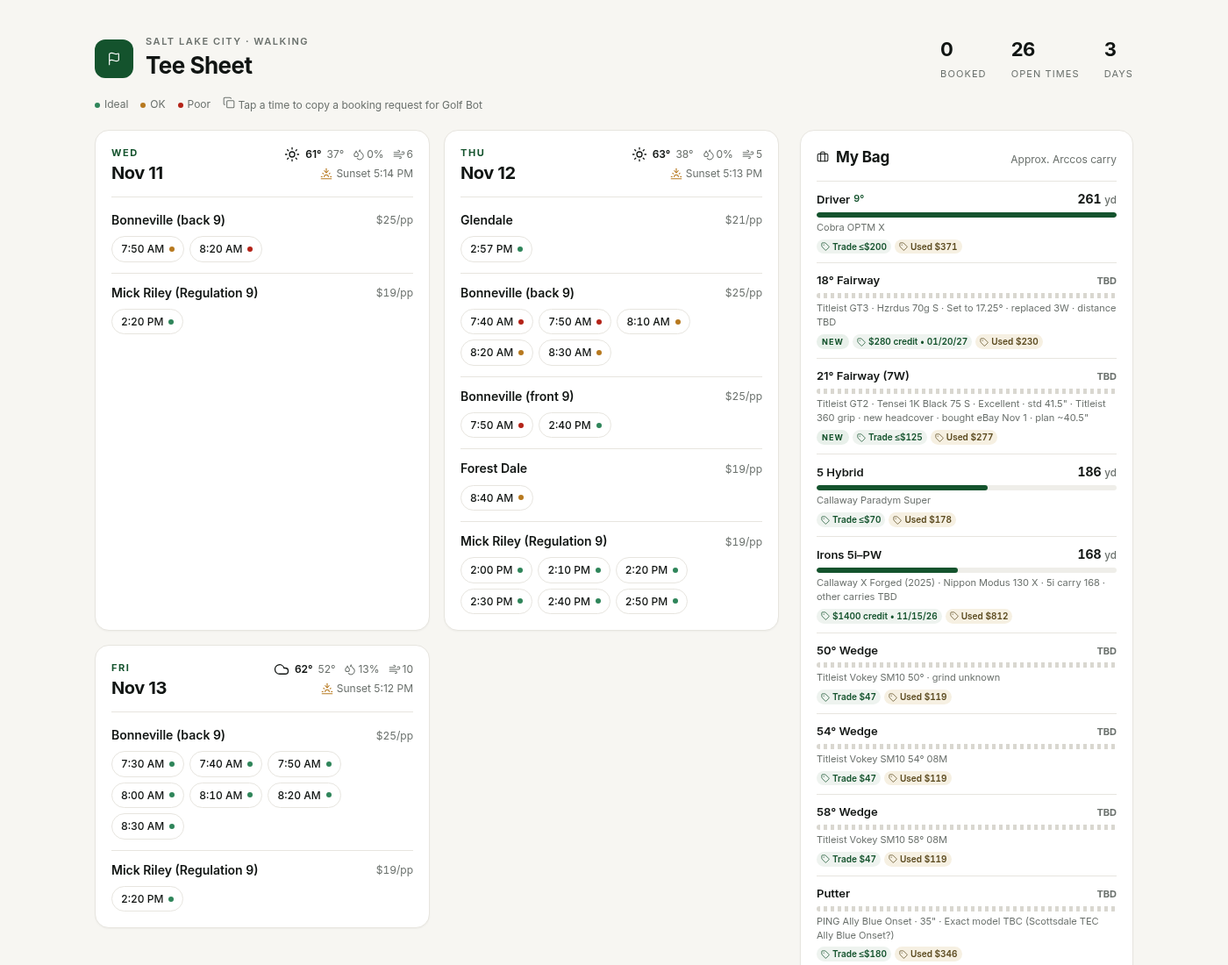
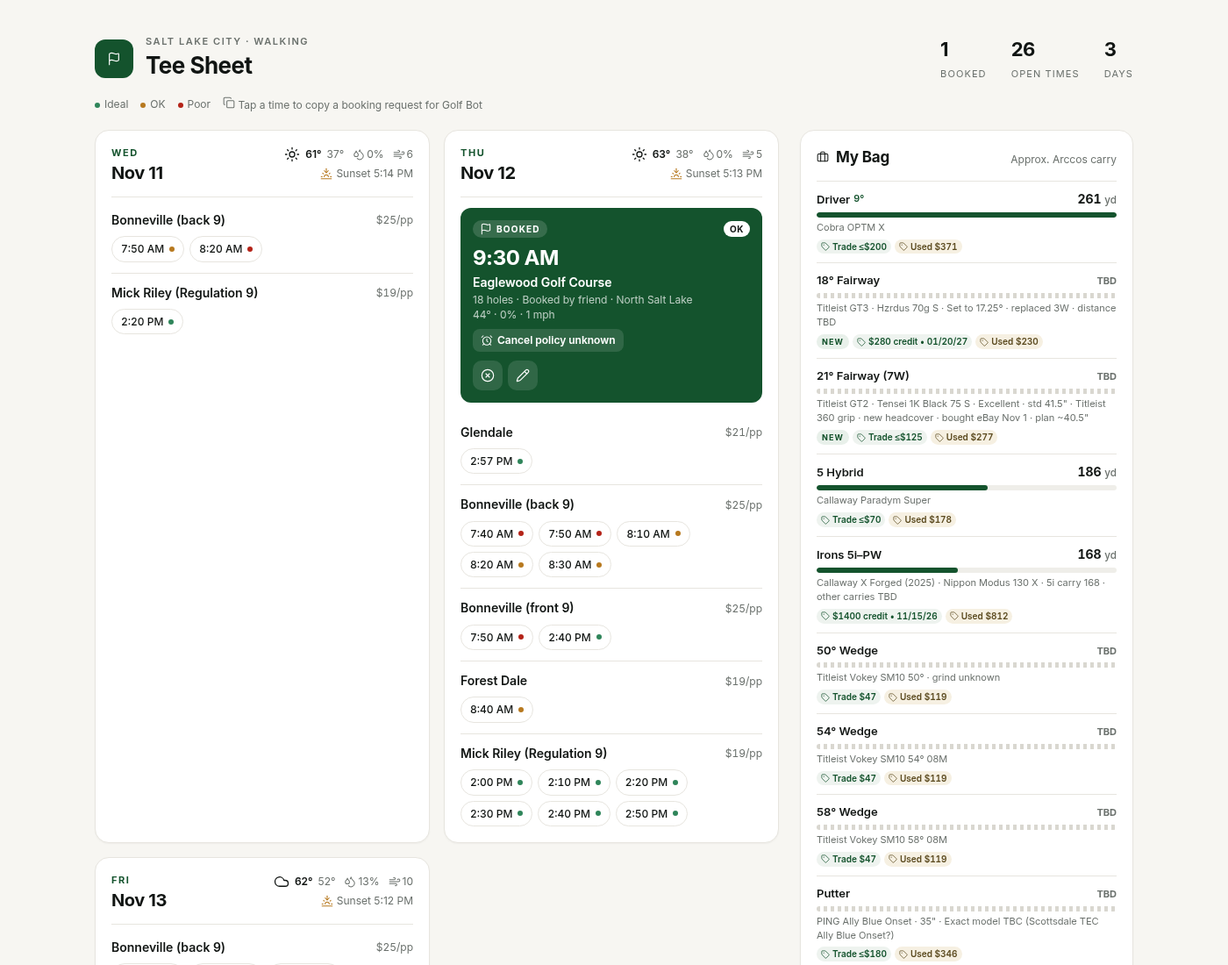
Update schedule 2026-11-11 11:56 MT

diff --git a/index.html b/index.html
@@ -47,10 +47,10 @@ ul{list-style:none;margin:0;padding:0}.ladder{border-top:1px solid var(--ln)}
 @media(max-width:560px){.wrap{padding:22px 16px 48px}h1{font-size:22px}.stats{gap:20px}.grid{grid-template-columns:1fr}}
 </style></head><body><div class="wrap">
 <div class="top"><div class="brand"><div class="logo"><i data-lucide="flag" class="ic "></i></div><div><div class="eyebrow">Salt Lake City · Walking</div><h1>Tee Sheet</h1></div></div>
-<div class="stats"><div class="stat"><b>0</b><span>Booked</span></div><div class="stat"><b>26</b><span>Open times</span></div><div class="stat"><b>3</b><span>Days</span></div></div></div>
+<div class="stats"><div class="stat"><b>1</b><span>Booked</span></div><div class="stat"><b>26</b><span>Open times</span></div><div class="stat"><b>3</b><span>Days</span></div></div></div>
 <div class="legend"><span><i class="dot ideal"></i>Ideal</span><span><i class="dot ok"></i>OK</span><span><i class="dot poor"></i>Poor</span><span><i data-lucide="copy" class="ic s"></i> Tap a time to copy a booking request for Golf Bot</span></div>
-<div class="layout"><div class="grid"><section class="card day"><header><div><div class="dow">Wed</div><div class="dt">Nov 11</div></div><div class="wxc"><div class="sum" title="☀ Clear (7a–7p)"><i data-lucide="sun" class="ic "></i><span class="hi">61°</span><span class="lo">37°</span><span class="m"><i data-lucide="droplets" class="ic s"></i>0%</span><span class="m"><i data-lucide="wind" class="ic s"></i>6</span></div><div class="sun"><i data-lucide="sunset" class="ic s"></i>Sunset 5:14 PM</div></div></header><div class="crs"><div class="row"><span class="cn">Bonneville (back 9)</span><span class="pr">$25/pp</span></div><div class="tts"><button class="tt ok" data-msg="Book Bonneville (back 9) Wed Nov 11 7:50 AM" title="☀ Clear · 41°F · 0% precip · 4 mph · tap to copy booking request" aria-label="Copy: Book Bonneville (back 9) Wed Nov 11 7:50 AM" onclick="cp(this)"><span>7:50 AM</span><i class="dot"></i></button><button class="tt poor" data-msg="Book Bonneville (back 9) Wed Nov 11 8:20 AM" title="☀ Clear · 37°F · 0% precip · 5 mph · tap to copy booking request" aria-label="Copy: Book Bonneville (back 9) Wed Nov 11 8:20 AM" onclick="cp(this)"><span>8:20 AM</span><i class="dot"></i></button></div></div><div class="crs"><div class="row"><span class="cn">Mick Riley (Regulation 9)</span><span class="pr">$19/pp</span></div><div class="tts"><button class="tt ideal" data-msg="Book Mick Riley (Regulation 9) Wed Nov 11 2:20 PM" title="☀ Clear · 61°F · 0% precip · 5 mph · tap to copy booking request" aria-label="Copy: Book Mick Riley (Regulation 9) Wed Nov 11 2:20 PM" onclick="cp(this)"><span>2:20 PM</span><i class="dot"></i></button></div></div></section><section class="card day"><header><div><div class="dow">Thu</div><div class="dt">Nov 12</div></div><div class="wxc"><div class="sum" title="☀ Clear (7a–7p)"><i data-lucide="sun" class="ic "></i><span class="hi">63°</span><span class="lo">38°</span><span class="m"><i data-lucide="droplets" class="ic s"></i>0%</span><span class="m"><i data-lucide="wind" class="ic s"></i>5</span></div><div class="sun"><i data-lucide="sunset" class="ic s"></i>Sunset 5:13 PM</div></div></header><div class="crs"><div class="row"><span class="cn">Glendale</span><span class="pr">$21/pp</span></div><div class="tts"><button class="tt ideal" data-msg="Book Glendale Thu Nov 12 2:57 PM" title="🌤 Mostly clear · 62°F · 0% precip · 5 mph · tap to copy booking request" aria-label="Copy: Book Glendale Thu Nov 12 2:57 PM" onclick="cp(this)"><span>2:57 PM</span><i class="dot"></i></button></div></div><div class="crs"><div class="row"><span class="cn">Bonneville (back 9)</span><span class="pr">$25/pp</span></div><div class="tts"><button class="tt poor" data-msg="Book Bonneville (back 9) Thu Nov 12 7:40 AM" title="☀ Clear · 38°F · 0% precip · 2 mph · tap to copy booking request" aria-label="Copy: Book Bonneville (back 9) Thu Nov 12 7:40 AM" onclick="cp(this)"><span>7:40 AM</span><i class="dot"></i></button><button class="tt poor" data-msg="Book Bonneville (back 9) Thu Nov 12 7:50 AM" title="☀ Clear · 38°F · 0% precip · 2 mph · tap to copy booking request" aria-label="Copy: Book Bonneville (back 9) Thu Nov 12 7:50 AM" onclick="cp(this)"><span>7:50 AM</span><i class="dot"></i></button><button class="tt ok" data-msg="Book Bonneville (back 9) Thu Nov 12 8:10 AM" title="☀ Clear · 40°F · 0% precip · 3 mph · tap to copy booking request" aria-label="Copy: Book Bonneville (back 9) Thu Nov 12 8:10 AM" onclick="cp(this)"><span>8:10 AM</span><i class="dot"></i></button><button class="tt ok" data-msg="Book Bonneville (back 9) Thu Nov 12 8:20 AM" title="☀ Clear · 40°F · 0% precip · 3 mph · tap to copy booking request" aria-label="Copy: Book Bonneville (back 9) Thu Nov 12 8:20 AM" onclick="cp(this)"><span>8:20 AM</span><i class="dot"></i></button><button class="tt ok" data-msg="Book Bonneville (back 9) Thu Nov 12 8:30 AM" title="☀ Clear · 40°F · 0% precip · 3 mph · tap to copy booking request" aria-label="Copy: Book Bonneville (back 9) Thu Nov 12 8:30 AM" onclick="cp(this)"><span>8:30 AM</span><i class="dot"></i></button></div></div><div class="crs"><div class="row"><span class="cn">Bonneville (front 9)</span><span class="pr">$25/pp</span></div><div class="tts"><button class="tt poor" data-msg="Book Bonneville (front 9) Thu Nov 12 7:50 AM" title="☀ Clear · 38°F · 0% precip · 2 mph · tap to copy booking request" aria-label="Copy: Book Bonneville (front 9) Thu Nov 12 7:50 AM" onclick="cp(this)"><span>7:50 AM</span><i class="dot"></i></button><button class="tt ideal" data-msg="Book Bonneville (front 9) Thu Nov 12 2:40 PM" title="🌤 Mostly clear · 62°F · 0% precip · 5 mph · tap to copy booking request" aria-label="Copy: Book Bonneville (front 9) Thu Nov 12 2:40 PM" onclick="cp(this)"><span>2:40 PM</span><i class="dot"></i></button></div></div><div class="crs"><div class="row"><span class="cn">Forest Dale</span><span class="pr">$19/pp</span></div><div class="tts"><button class="tt ok" data-msg="Book Forest Dale Thu Nov 12 8:40 AM" title="☀ Clear · 40°F · 0% precip · 3 mph · tap to copy booking request" aria-label="Copy: Book Forest Dale Thu Nov 12 8:40 AM" onclick="cp(this)"><span>8:40 AM</span><i class="dot"></i></button></div></div><div class="crs"><div class="row"><span class="cn">Mick Riley (Regulation 9)</span><span class="pr">$19/pp</span></div><div class="tts"><button class="tt ideal" data-msg="Book Mick Riley (Regulation 9) Thu Nov 12 2:00 PM" title="🌤 Mostly clear · 62°F · 0% precip · 5 mph · tap to copy booking request" aria-label="Copy: Book Mick Riley (Regulation 9) Thu Nov 12 2:00 PM" onclick="cp(this)"><span>2:00 PM</span><i class="dot"></i></button><button class="tt ideal" data-msg="Book Mick Riley (Regulation 9) Thu Nov 12 2:10 PM" title="🌤 Mostly clear · 62°F · 0% precip · 5 mph · tap to copy booking request" aria-label="Copy: Book Mick Riley (Regulation 9) Thu Nov 12 2:10 PM" onclick="cp(this)"><span>2:10 PM</span><i class="dot"></i></button><button class="tt ideal" data-msg="Book Mick Riley (Regulation 9) Thu Nov 12 2:20 PM" title="🌤 Mostly clear · 62°F · 0% precip · 5 mph · tap to copy booking request" aria-label="Copy: Book Mick Riley (Regulation 9) Thu Nov 12 2:20 PM" onclick="cp(this)"><span>2:20 PM</span><i class="dot"></i></button><button class="tt ideal" data-msg="Book Mick Riley (Regulation 9) Thu Nov 12 2:30 PM" title="🌤 Mostly clear · 62°F · 0% precip · 5 mph · tap to copy booking request" aria-label="Copy: Book Mick Riley (Regulation 9) Thu Nov 12 2:30 PM" onclick="cp(this)"><span>2:30 PM</span><i class="dot"></i></button><button class="tt ideal" data-msg="Book Mick Riley (Regulation 9) Thu Nov 12 2:40 PM" title="🌤 Mostly clear · 62°F · 0% precip · 5 mph · tap to copy booking request" aria-label="Copy: Book Mick Riley (Regulation 9) Thu Nov 12 2:40 PM" onclick="cp(this)"><span>2:40 PM</span><i class="dot"></i></button><button class="tt ideal" data-msg="Book Mick Riley (Regulation 9) Thu Nov 12 2:50 PM" title="🌤 Mostly clear · 62°F · 0% precip · 5 mph · tap to copy booking request" aria-label="Copy: Book Mick Riley (Regulation 9) Thu Nov 12 2:50 PM" onclick="cp(this)"><span>2:50 PM</span><i class="dot"></i></button></div></div></section><section class="card day"><header><div><div class="dow">Fri</div><div class="dt">Nov 13</div></div><div class="wxc"><div class="sum" title="☁ Overcast (7a–7p)"><i data-lucide="cloud" class="ic "></i><span class="hi">62°</span><span class="lo">52°</span><span class="m"><i data-lucide="droplets" class="ic s"></i>13%</span><span class="m"><i data-lucide="wind" class="ic s"></i>10</span></div><div class="sun"><i data-lucide="sunset" class="ic s"></i>Sunset 5:12 PM</div></div></header><div class="crs"><div class="row"><span class="cn">Bonneville (back 9)</span><span class="pr">$25/pp</span></div><div class="tts"><button class="tt ideal" data-msg="Book Bonneville (back 9) Fri Nov 13 7:30 AM" title="☁ Overcast · 52°F · 0% precip · 5 mph · tap to copy booking request" aria-label="Copy: Book Bonneville (back 9) Fri Nov 13 7:30 AM" onclick="cp(this)"><span>7:30 AM</span><i class="dot"></i></button><button class="tt ideal" data-msg="Book Bonneville (back 9) Fri Nov 13 7:40 AM" title="☁ Overcast · 52°F · 0% precip · 5 mph · tap to copy booking request" aria-label="Copy: Book Bonneville (back 9) Fri Nov 13 7:40 AM" onclick="cp(this)"><span>7:40 AM</span><i class="dot"></i></button><button class="tt ideal" data-msg="Book Bonneville (back 9) Fri Nov 13 7:50 AM" title="☁ Overcast · 52°F · 0% precip · 5 mph · tap to copy booking request" aria-label="Copy: Book Bonneville (back 9) Fri Nov 13 7:50 AM" onclick="cp(this)"><span>7:50 AM</span><i class="dot"></i></button><button class="tt ideal" data-msg="Book Bonneville (back 9) Fri Nov 13 8:00 AM" title="☁ Overcast · 52°F · 0% precip · 5 mph · tap to copy booking request" aria-label="Copy: Book Bonneville (back 9) Fri Nov 13 8:00 AM" onclick="cp(this)"><span>8:00 AM</span><i class="dot"></i></button><button class="tt ideal" data-msg="Book Bonneville (back 9) Fri Nov 13 8:10 AM" title="☁ Overcast · 52°F · 0% precip · 5 mph · tap to copy booking request" aria-label="Copy: Book Bonneville (back 9) Fri Nov 13 8:10 AM" onclick="cp(this)"><span>8:10 AM</span><i class="dot"></i></button><button class="tt ideal" data-msg="Book Bonneville (back 9) Fri Nov 13 8:20 AM" title="☁ Overcast · 52°F · 0% precip · 5 mph · tap to copy booking request" aria-label="Copy: Book Bonneville (back 9) Fri Nov 13 8:20 AM" onclick="cp(this)"><span>8:20 AM</span><i class="dot"></i></button><button class="tt ideal" data-msg="Book Bonneville (back 9) Fri Nov 13 8:30 AM" title="☁ Overcast · 52°F · 0% precip · 5 mph · tap to copy booking request" aria-label="Copy: Book Bonneville (back 9) Fri Nov 13 8:30 AM" onclick="cp(this)"><span>8:30 AM</span><i class="dot"></i></button></div></div><div class="crs"><div class="row"><span class="cn">Mick Riley (Regulation 9)</span><span class="pr">$19/pp</span></div><div class="tts"><button class="tt ideal" data-msg="Book Mick Riley (Regulation 9) Fri Nov 13 2:20 PM" title="☁ Overcast · 62°F · 0% precip · 10 mph · tap to copy booking request" aria-label="Copy: Book Mick Riley (Regulation 9) Fri Nov 13 2:20 PM" onclick="cp(this)"><span>2:20 PM</span><i class="dot"></i></button></div></div></section></div><section class="card bag"><header><h2><i data-lucide="briefcase" class="ic s"></i>My Bag</h2><span class="muted">Approx. Arccos carry</span></header><ul class="ladder"><li class="lad"><div class="l1"><div class="cname">Driver <small>9°</small></div><div class="yd">261 <small>yd</small></div></div><div class="bar"><span style="width:100%"></span></div><div class="muted">Cobra OPTM X</div><div class=bdg><span class="val" title="On in Two trade-in (up-to ceiling) · 2026-11-02"><i data-lucide="tag" class="ic xs"></i>Trade ≤$200</span><span class="val used" title="2nd Swing used OPTM X Stiff: 9° Mint $379.99 (Kai&#x27;li White 60), 10.5° Above Average $362.99 · 2026-11-02"><i data-lucide="tag" class="ic xs"></i>Used $371</span></div></li><li class="lad"><div class="l1"><div class="cname">18° Fairway</div><div class="yd muted">TBD</div></div><div class="bar tbd"><span></span></div><div class="muted">Titleist GT3 · Hzrdus 70g S · Set to 17.25° · replaced 3W · distance TBD</div><div class=bdg><span class="pill sm">New</span><span class="val" title="Uinta Golf 90-day guarantee, bought Oct 22, 2026 · 2026-10-22"><i data-lucide="tag" class="ic xs"></i>$280 credit • 01/20/27</span><span class="val used" title="Global Golf used GT3 fairway Excellent $229.99; eBay sold GT3 18° 5W median $231 (Teeworth, 90 days) · 2026-10-26"><i data-lucide="tag" class="ic xs"></i>Used $230</span></div></li><li class="lad"><div class="l1"><div class="cname">21° Fairway (7W)</div><div class="yd muted">TBD</div></div><div class="bar tbd"><span></span></div><div class="muted">Titleist GT2 · Tensei 1K Black 75 S · Excellent · std 41.5&quot; · Titleist 360 grip · new headcover · bought eBay Nov 1 · plan ~40.5&quot;</div><div class=bdg><span class="pill sm">New</span><span class="val" title="On in Two trade-in (up-to ceiling, excellent) · Titleist GT2 fairway · 2026-11-02"><i data-lucide="tag" class="ic xs"></i>Trade ≤$125</span><span class="val used" title="Avg of Global Golf GT2 Very Good $264.99 and Next Round GT2 Excellent $289.99; eBay sold median $200 (45 sales, Face Value Golf) · 2026-10-26"><i data-lucide="tag" class="ic xs"></i>Used $277</span></div></li><li class="lad"><div class="l1"><div class="cname">5 Hybrid</div><div class="yd">186 <small>yd</small></div></div><div class="bar"><span style="width:57%"></span></div><div class="muted">Callaway Paradym Super</div><div class=bdg><span class="val" title="On in Two trade-in (up-to ceiling) · 2026-11-02"><i data-lucide="tag" class="ic xs"></i>Trade ≤$70</span><span class="val used" title="Face Value Golf typical used asking, Paradym Super hybrid Above Average grade (Callaway Pre-Owned from $120 Avg) · 2026-10-26"><i data-lucide="tag" class="ic xs"></i>Used $178</span></div></li><li class="lad"><div class="l1"><div class="cname">Irons 5i–PW</div><div class="yd">168 <small>yd</small></div></div><div class="bar"><span style="width:47%"></span></div><div class="muted">Callaway X Forged (2025) · Nippon Modus 130 X · 5i carry 168 · other carries TBD</div><div class=bdg><span class="val" title="Jason: trade-in guarantee value, trade by Nov 15, 2026 (deadline approx., per Jason) · 2026-10-26"><i data-lucide="tag" class="ic xs"></i>$1400 credit • 11/15/26</span><span class="val used" title="FairwayWire eBay sold avg, X Forged 2025 set (18 sales, mostly 4-PW, mixed shafts); Excellent/Very Good sales $986–$1,200 · 2026-10-26"><i data-lucide="tag" class="ic xs"></i>Used $812</span></div></li><li class="lad"><div class="l1"><div class="cname">50° Wedge</div><div class="yd muted">TBD</div></div><div class="bar tbd"><span></span></div><div class="muted">Titleist Vokey SM10 50° · grind unknown</div><div class=bdg><span class="val" title="2nd Swing store credit via Face Value Golf (SM10 family, avg cond., checked Oct 21); iGolf Value Guide cash $47 · 2026-11-02"><i data-lucide="tag" class="ic xs"></i>Trade $47</span><span class="val used" title="Titleist Certified Pre-Owned SM10 Excellent $119 · 2026-10-26"><i data-lucide="tag" class="ic xs"></i>Used $119</span></div></li><li class="lad"><div class="l1"><div class="cname">54° Wedge</div><div class="yd muted">TBD</div></div><div class="bar tbd"><span></span></div><div class="muted">Titleist Vokey SM10 54° 08M</div><div class=bdg><span class="val" title="2nd Swing store credit via Face Value Golf (SM10 family, avg cond., checked Oct 21); iGolf Value Guide cash $47 · 2026-11-02"><i data-lucide="tag" class="ic xs"></i>Trade $47</span><span class="val used" title="Titleist Certified Pre-Owned SM10 Excellent $119 · 2026-10-26"><i data-lucide="tag" class="ic xs"></i>Used $119</span></div></li><li class="lad"><div class="l1"><div class="cname">58° Wedge</div><div class="yd muted">TBD</div></div><div class="bar tbd"><span></span></div><div class="muted">Titleist Vokey SM10 58° 08M</div><div class=bdg><span class="val" title="2nd Swing store credit via Face Value Golf (SM10 family, avg cond., checked Oct 21); iGolf Value Guide cash $47 · 2026-11-02"><i data-lucide="tag" class="ic xs"></i>Trade $47</span><span class="val used" title="Titleist Certified Pre-Owned SM10 Excellent $119 · 2026-10-26"><i data-lucide="tag" class="ic xs"></i>Used $119</span></div></li><li class="lad"><div class="l1"><div class="cname">Putter</div><div class="yd muted">TBD</div></div><div class="bar tbd"><span></span></div><div class="muted">PING Ally Blue Onset · 35&quot; · Exact model TBC (Scottsdale TEC Ally Blue Onset?)</div><div class=bdg><span class="val" title="On in Two trade-in (up-to ceiling) · Scottsdale TEC Ally Blue Onset; PLD SE Ally Blue 4 Onset $185 · 2026-11-02"><i data-lucide="tag" class="ic xs"></i>Trade ≤$180</span><span class="val used" title="ClubChecks used target, Scottsdale TEC Ally Blue Onset; Carl&#x27;s Golfland 35&quot; Very Good $349.99 · 2026-10-26"><i data-lucide="tag" class="ic xs"></i>Used $346</span></div></li></ul><div class="subs"><div class="sub"><h3><i data-lucide="repeat" class="ic s"></i>Flagged to replace</h3><ul class="lst replace"><li><div class="it"><div class="l1"><div class="cname">Callaway X Forged irons</div></div><div class="muted">Considering trade for P7CB heads, same Modus 130 X</div><div class=bdg><span class="val" title="Jason: trade-in guarantee value, trade by Nov 15, 2026 (deadline approx., per Jason) · 2026-10-26"><i data-lucide="tag" class="ic xs"></i>$1400 credit • 11/15/26</span><span class="val used" title="FairwayWire eBay sold avg, X Forged 2025 set (18 sales, mostly 4-PW, mixed shafts); Excellent/Very Good sales $986–$1,200 · 2026-10-26"><i data-lucide="tag" class="ic xs"></i>Used $812</span></div></div></li></ul></div><div class="sub"><h3><i data-lucide="pause-circle" class="ic s"></i>Sidelined</h3><ul class="lst sidelined"><li><div class="it"><div class="l1"><div class="cname">Odyssey Jailbird Mini · slant neck 35&quot;</div></div><div class="muted">Keep, go back to, or trade?</div><div class=bdg><span class="val" title="On in Two trade-in ceilings: Ai-ONE Jailbird Mini S $95 – Ai-DUAL Jailbird Mini $120 (exact version TBC) · 2026-11-02"><i data-lucide="tag" class="ic xs"></i>Trade $95–120</span><span class="val used" title="Golf Club Index avg sold, Odyssey Ai-ONE Jailbird Mini (exact version TBC) · 2026-10-26"><i data-lucide="tag" class="ic xs"></i>Used $194</span></div></div></li><li><div class="it"><div class="l1"><div class="cname">3 Hybrid</div><div class=yd>195 <small>yd</small></div></div><div class="muted">Sidelined Nov 8, 2026 · was flagged to come out when the 21° GT goes in</div><div class=bdg><span class="val" title="On in Two trade-in (up-to ceiling) · 2026-11-02"><i data-lucide="tag" class="ic xs"></i>Trade ≤$70</span><span class="val used" title="Face Value Golf typical used asking, Paradym Super hybrid Above Average grade (Callaway Pre-Owned from $120 Avg) · 2026-10-26"><i data-lucide="tag" class="ic xs"></i>Used $178</span></div></div></li></ul></div><div class="sub"><h3><i data-lucide="plus-circle" class="ic s"></i>Interested in adding</h3><ul class="lst add"><li><div class="it"><div class="l1"><div class="cname">TaylorMade P7CB irons</div></div><div class="muted">Same Modus 130 X shafts</div><div class=bdg><span class="val" title="Face Value Golf: best cash offer, iGolf Value Guide, 7-club set, Average ($61.50/club), checked Oct 11 · 2026-10-26"><i data-lucide="tag" class="ic xs"></i>Trade $431 set</span><span class="val used" title="Face Value Golf typical used asking, 7-club set, median of 44 listings (Average or better), checked Oct 11; Global Golf Average 4-PW $760 · 2026-10-26"><i data-lucide="tag" class="ic xs"></i>Used $859</span></div></div></li><li><div class="it"><div class="l1"><div class="cname">Titleist Vokey SM10 46° 10F</div></div><div class="muted">Backup PW option if the X Forged PW doesn&#x27;t work out or gets damaged; not in the bag</div><div class=bdg><span class="val" title="2nd Swing store credit via Face Value Golf (SM10 family, avg cond.) · 2026-10-23"><i data-lucide="tag" class="ic xs"></i>Trade $47</span><span class="val used" title="Titleist Certified Pre-Owned SM10 Excellent $119 · 2026-10-26"><i data-lucide="tag" class="ic xs"></i>Used $119</span></div></div></li></ul></div><div class="sub"><h3><i data-lucide="archive" class="ic s"></i>Retired</h3><ul class="lst retired"><li><div class="it"><div class="l1"><div class="cname">Paradym Ai Smoke Max 3W</div></div><div class="muted">~211 yd, right miss · traded in for GT3 18° at Uinta Golf, Oct 2026</div></div></li></ul></div></div></section></div><section class="card lenchart"><header><h2><i data-lucide="ruler" class="ic s"></i>Titleist GT/GTS woods + GT1 hybrid lengths</h2></header><div class="tw"><table><thead><tr><th>Loft</th><th>Club</th><th>Models</th><th>Std</th><th>−½"</th><th>−1"</th></tr></thead><tbody><tr><td>13.5°</td><td>3-wood</td><td class="muted">GT2, GTS2</td><td>43"</td><td>42.5"</td><td>42"</td></tr><tr><td>15°</td><td>3-wood</td><td class="muted">GT1, GT2, GT3, GTS</td><td>43"</td><td>42.5"</td><td>42"</td></tr><tr><td>16.5°</td><td>4-wood</td><td class="muted">GT2, GT3, GTS</td><td>43"</td><td>42.5"</td><td>42"</td></tr><tr class="inbag"><td>18°</td><td>5-wood (mine, GT3) <span class="mtag">In bag</span></td><td class="muted">GT1, GT2, GT3, GTS</td><td>42"</td><td class=hl>41.5"</td><td>41"</td></tr><tr><td>20°</td><td>4-hybrid</td><td class="muted">GT1 hybrid</td><td>40.5"</td><td>40"</td><td>39.5"</td></tr><tr class="inbag"><td>21°</td><td>7-wood <span class="mtag">In bag</span></td><td class="muted">GT1, GT2, GTS</td><td>41.5"</td><td>41"</td><td class=hl>40.5"</td></tr><tr class="target"><td>23°</td><td>5-hybrid <span class="mtag">Target</span> <span class="muted">set to 24.5°</span></td><td class="muted">GT1 hybrid</td><td>40"</td><td>39.5"</td><td>39"</td></tr><tr class="target"><td>24°</td><td>9-wood <span class="mtag">Target</span></td><td class="muted">GT1 only</td><td>41"</td><td>40.5"</td><td class=hl>40"</td></tr><tr><td>26°</td><td>6-hybrid</td><td class="muted">GT1 hybrid</td><td>39.5"</td><td>39"</td><td>38.5"</td></tr><tr><td>29°</td><td>7-hybrid</td><td class="muted">GT1 hybrid</td><td>39"</td><td>38.5"</td><td>38"</td></tr></tbody></table></div><p class="muted">Row marks: In bag (GT3 18° 5-wood, GT2 21° 7-wood set 22.5°) and Target (GT1 23° hybrid set 24.5°, GT1 24° 9-wood). Highlighted cells = shortening plan in ~½" steps (5-wood 41.5", 7-wood ~40.5" or 9-wood ~40"). GT1 23° hybrid is already 40" stock. Add ~2g head weight per ½" cut. GT1 hybrids ship with a .335" fairway tip unless custom-ordered with .370". Source: Titleist specs.</p></section>
-<div class="foot"><i data-lucide="refresh-cw" class="ic s"></i>Updated Wed Nov 11 · 11:09 AM MT · Open times checked at about 7:18 AM MST on Nov 11. Wed/Fri: Glendale sold out. Forest Dale: Thursday 8:40 AM only. Walking preferred, cart unknown. ForeUp unverified. · Weather: Open-Meteo</div></div>
+<div class="layout"><div class="grid"><section class="card day"><header><div><div class="dow">Wed</div><div class="dt">Nov 11</div></div><div class="wxc"><div class="sum" title="☀ Clear (7a–7p)"><i data-lucide="sun" class="ic "></i><span class="hi">61°</span><span class="lo">37°</span><span class="m"><i data-lucide="droplets" class="ic s"></i>0%</span><span class="m"><i data-lucide="wind" class="ic s"></i>6</span></div><div class="sun"><i data-lucide="sunset" class="ic s"></i>Sunset 5:14 PM</div></div></header><div class="crs"><div class="row"><span class="cn">Bonneville (back 9)</span><span class="pr">$25/pp</span></div><div class="tts"><button class="tt ok" data-msg="Book Bonneville (back 9) Wed Nov 11 7:50 AM" title="☀ Clear · 41°F · 0% precip · 4 mph · tap to copy booking request" aria-label="Copy: Book Bonneville (back 9) Wed Nov 11 7:50 AM" onclick="cp(this)"><span>7:50 AM</span><i class="dot"></i></button><button class="tt poor" data-msg="Book Bonneville (back 9) Wed Nov 11 8:20 AM" title="☀ Clear · 37°F · 0% precip · 5 mph · tap to copy booking request" aria-label="Copy: Book Bonneville (back 9) Wed Nov 11 8:20 AM" onclick="cp(this)"><span>8:20 AM</span><i class="dot"></i></button></div></div><div class="crs"><div class="row"><span class="cn">Mick Riley (Regulation 9)</span><span class="pr">$19/pp</span></div><div class="tts"><button class="tt ideal" data-msg="Book Mick Riley (Regulation 9) Wed Nov 11 2:20 PM" title="☀ Clear · 61°F · 0% precip · 5 mph · tap to copy booking request" aria-label="Copy: Book Mick Riley (Regulation 9) Wed Nov 11 2:20 PM" onclick="cp(this)"><span>2:20 PM</span><i class="dot"></i></button></div></div></section><section class="card day"><header><div><div class="dow">Thu</div><div class="dt">Nov 12</div></div><div class="wxc"><div class="sum" title="☀ Clear (7a–7p)"><i data-lucide="sun" class="ic "></i><span class="hi">63°</span><span class="lo">38°</span><span class="m"><i data-lucide="droplets" class="ic s"></i>0%</span><span class="m"><i data-lucide="wind" class="ic s"></i>5</span></div><div class="sun"><i data-lucide="sunset" class="ic s"></i>Sunset 5:13 PM</div></div></header><div class="booked"><div class="row"><span class="pill"><i data-lucide="flag" class="ic s"></i>Booked</span><span class="badge ok">OK</span></div><div class="bt">9:30 AM</div><div class="bc">Eaglewood Golf Course</div><div class="muted">18 holes · Booked by friend · North Salt Lake</div><div class="muted">44° · 0% · 1 mph</div><div class="cancelby"><i data-lucide="alarm-clock" class="ic s"></i>Cancel policy unknown</div><div class="acts"><button class="ib" data-msg="Cancel my Eaglewood Golf Course tee time Thu Nov 12 9:30 AM" aria-label="Copy cancel request" title="Copy cancel request" onclick="cp(this)"><i data-lucide="x-circle" class="ic "></i></button><button class="ib" data-msg="Change my Eaglewood Golf Course tee time Thu Nov 12 9:30 AM" aria-label="Copy change request" title="Copy change request" onclick="cp(this)"><i data-lucide="pencil" class="ic "></i></button></div></div><div class="crs"><div class="row"><span class="cn">Glendale</span><span class="pr">$21/pp</span></div><div class="tts"><button class="tt ideal" data-msg="Book Glendale Thu Nov 12 2:57 PM" title="🌤 Mostly clear · 62°F · 0% precip · 5 mph · tap to copy booking request" aria-label="Copy: Book Glendale Thu Nov 12 2:57 PM" onclick="cp(this)"><span>2:57 PM</span><i class="dot"></i></button></div></div><div class="crs"><div class="row"><span class="cn">Bonneville (back 9)</span><span class="pr">$25/pp</span></div><div class="tts"><button class="tt poor" data-msg="Book Bonneville (back 9) Thu Nov 12 7:40 AM" title="☀ Clear · 38°F · 0% precip · 2 mph · tap to copy booking request" aria-label="Copy: Book Bonneville (back 9) Thu Nov 12 7:40 AM" onclick="cp(this)"><span>7:40 AM</span><i class="dot"></i></button><button class="tt poor" data-msg="Book Bonneville (back 9) Thu Nov 12 7:50 AM" title="☀ Clear · 38°F · 0% precip · 2 mph · tap to copy booking request" aria-label="Copy: Book Bonneville (back 9) Thu Nov 12 7:50 AM" onclick="cp(this)"><span>7:50 AM</span><i class="dot"></i></button><button class="tt ok" data-msg="Book Bonneville (back 9) Thu Nov 12 8:10 AM" title="☀ Clear · 40°F · 0% precip · 3 mph · tap to copy booking request" aria-label="Copy: Book Bonneville (back 9) Thu Nov 12 8:10 AM" onclick="cp(this)"><span>8:10 AM</span><i class="dot"></i></button><button class="tt ok" data-msg="Book Bonneville (back 9) Thu Nov 12 8:20 AM" title="☀ Clear · 40°F · 0% precip · 3 mph · tap to copy booking request" aria-label="Copy: Book Bonneville (back 9) Thu Nov 12 8:20 AM" onclick="cp(this)"><span>8:20 AM</span><i class="dot"></i></button><button class="tt ok" data-msg="Book Bonneville (back 9) Thu Nov 12 8:30 AM" title="☀ Clear · 40°F · 0% precip · 3 mph · tap to copy booking request" aria-label="Copy: Book Bonneville (back 9) Thu Nov 12 8:30 AM" onclick="cp(this)"><span>8:30 AM</span><i class="dot"></i></button></div></div><div class="crs"><div class="row"><span class="cn">Bonneville (front 9)</span><span class="pr">$25/pp</span></div><div class="tts"><button class="tt poor" data-msg="Book Bonneville (front 9) Thu Nov 12 7:50 AM" title="☀ Clear · 38°F · 0% precip · 2 mph · tap to copy booking request" aria-label="Copy: Book Bonneville (front 9) Thu Nov 12 7:50 AM" onclick="cp(this)"><span>7:50 AM</span><i class="dot"></i></button><button class="tt ideal" data-msg="Book Bonneville (front 9) Thu Nov 12 2:40 PM" title="🌤 Mostly clear · 62°F · 0% precip · 5 mph · tap to copy booking request" aria-label="Copy: Book Bonneville (front 9) Thu Nov 12 2:40 PM" onclick="cp(this)"><span>2:40 PM</span><i class="dot"></i></button></div></div><div class="crs"><div class="row"><span class="cn">Forest Dale</span><span class="pr">$19/pp</span></div><div class="tts"><button class="tt ok" data-msg="Book Forest Dale Thu Nov 12 8:40 AM" title="☀ Clear · 40°F · 0% precip · 3 mph · tap to copy booking request" aria-label="Copy: Book Forest Dale Thu Nov 12 8:40 AM" onclick="cp(this)"><span>8:40 AM</span><i class="dot"></i></button></div></div><div class="crs"><div class="row"><span class="cn">Mick Riley (Regulation 9)</span><span class="pr">$19/pp</span></div><div class="tts"><button class="tt ideal" data-msg="Book Mick Riley (Regulation 9) Thu Nov 12 2:00 PM" title="🌤 Mostly clear · 62°F · 0% precip · 5 mph · tap to copy booking request" aria-label="Copy: Book Mick Riley (Regulation 9) Thu Nov 12 2:00 PM" onclick="cp(this)"><span>2:00 PM</span><i class="dot"></i></button><button class="tt ideal" data-msg="Book Mick Riley (Regulation 9) Thu Nov 12 2:10 PM" title="🌤 Mostly clear · 62°F · 0% precip · 5 mph · tap to copy booking request" aria-label="Copy: Book Mick Riley (Regulation 9) Thu Nov 12 2:10 PM" onclick="cp(this)"><span>2:10 PM</span><i class="dot"></i></button><button class="tt ideal" data-msg="Book Mick Riley (Regulation 9) Thu Nov 12 2:20 PM" title="🌤 Mostly clear · 62°F · 0% precip · 5 mph · tap to copy booking request" aria-label="Copy: Book Mick Riley (Regulation 9) Thu Nov 12 2:20 PM" onclick="cp(this)"><span>2:20 PM</span><i class="dot"></i></button><button class="tt ideal" data-msg="Book Mick Riley (Regulation 9) Thu Nov 12 2:30 PM" title="🌤 Mostly clear · 62°F · 0% precip · 5 mph · tap to copy booking request" aria-label="Copy: Book Mick Riley (Regulation 9) Thu Nov 12 2:30 PM" onclick="cp(this)"><span>2:30 PM</span><i class="dot"></i></button><button class="tt ideal" data-msg="Book Mick Riley (Regulation 9) Thu Nov 12 2:40 PM" title="🌤 Mostly clear · 62°F · 0% precip · 5 mph · tap to copy booking request" aria-label="Copy: Book Mick Riley (Regulation 9) Thu Nov 12 2:40 PM" onclick="cp(this)"><span>2:40 PM</span><i class="dot"></i></button><button class="tt ideal" data-msg="Book Mick Riley (Regulation 9) Thu Nov 12 2:50 PM" title="🌤 Mostly clear · 62°F · 0% precip · 5 mph · tap to copy booking request" aria-label="Copy: Book Mick Riley (Regulation 9) Thu Nov 12 2:50 PM" onclick="cp(this)"><span>2:50 PM</span><i class="dot"></i></button></div></div></section><section class="card day"><header><div><div class="dow">Fri</div><div class="dt">Nov 13</div></div><div class="wxc"><div class="sum" title="☁ Overcast (7a–7p)"><i data-lucide="cloud" class="ic "></i><span class="hi">62°</span><span class="lo">52°</span><span class="m"><i data-lucide="droplets" class="ic s"></i>13%</span><span class="m"><i data-lucide="wind" class="ic s"></i>10</span></div><div class="sun"><i data-lucide="sunset" class="ic s"></i>Sunset 5:12 PM</div></div></header><div class="crs"><div class="row"><span class="cn">Bonneville (back 9)</span><span class="pr">$25/pp</span></div><div class="tts"><button class="tt ideal" data-msg="Book Bonneville (back 9) Fri Nov 13 7:30 AM" title="☁ Overcast · 52°F · 0% precip · 5 mph · tap to copy booking request" aria-label="Copy: Book Bonneville (back 9) Fri Nov 13 7:30 AM" onclick="cp(this)"><span>7:30 AM</span><i class="dot"></i></button><button class="tt ideal" data-msg="Book Bonneville (back 9) Fri Nov 13 7:40 AM" title="☁ Overcast · 52°F · 0% precip · 5 mph · tap to copy booking request" aria-label="Copy: Book Bonneville (back 9) Fri Nov 13 7:40 AM" onclick="cp(this)"><span>7:40 AM</span><i class="dot"></i></button><button class="tt ideal" data-msg="Book Bonneville (back 9) Fri Nov 13 7:50 AM" title="☁ Overcast · 52°F · 0% precip · 5 mph · tap to copy booking request" aria-label="Copy: Book Bonneville (back 9) Fri Nov 13 7:50 AM" onclick="cp(this)"><span>7:50 AM</span><i class="dot"></i></button><button class="tt ideal" data-msg="Book Bonneville (back 9) Fri Nov 13 8:00 AM" title="☁ Overcast · 52°F · 0% precip · 5 mph · tap to copy booking request" aria-label="Copy: Book Bonneville (back 9) Fri Nov 13 8:00 AM" onclick="cp(this)"><span>8:00 AM</span><i class="dot"></i></button><button class="tt ideal" data-msg="Book Bonneville (back 9) Fri Nov 13 8:10 AM" title="☁ Overcast · 52°F · 0% precip · 5 mph · tap to copy booking request" aria-label="Copy: Book Bonneville (back 9) Fri Nov 13 8:10 AM" onclick="cp(this)"><span>8:10 AM</span><i class="dot"></i></button><button class="tt ideal" data-msg="Book Bonneville (back 9) Fri Nov 13 8:20 AM" title="☁ Overcast · 52°F · 0% precip · 5 mph · tap to copy booking request" aria-label="Copy: Book Bonneville (back 9) Fri Nov 13 8:20 AM" onclick="cp(this)"><span>8:20 AM</span><i class="dot"></i></button><button class="tt ideal" data-msg="Book Bonneville (back 9) Fri Nov 13 8:30 AM" title="☁ Overcast · 52°F · 0% precip · 5 mph · tap to copy booking request" aria-label="Copy: Book Bonneville (back 9) Fri Nov 13 8:30 AM" onclick="cp(this)"><span>8:30 AM</span><i class="dot"></i></button></div></div><div class="crs"><div class="row"><span class="cn">Mick Riley (Regulation 9)</span><span class="pr">$19/pp</span></div><div class="tts"><button class="tt ideal" data-msg="Book Mick Riley (Regulation 9) Fri Nov 13 2:20 PM" title="☁ Overcast · 62°F · 0% precip · 10 mph · tap to copy booking request" aria-label="Copy: Book Mick Riley (Regulation 9) Fri Nov 13 2:20 PM" onclick="cp(this)"><span>2:20 PM</span><i class="dot"></i></button></div></div></section></div><section class="card bag"><header><h2><i data-lucide="briefcase" class="ic s"></i>My Bag</h2><span class="muted">Approx. Arccos carry</span></header><ul class="ladder"><li class="lad"><div class="l1"><div class="cname">Driver <small>9°</small></div><div class="yd">261 <small>yd</small></div></div><div class="bar"><span style="width:100%"></span></div><div class="muted">Cobra OPTM X</div><div class=bdg><span class="val" title="On in Two trade-in (up-to ceiling) · 2026-11-02"><i data-lucide="tag" class="ic xs"></i>Trade ≤$200</span><span class="val used" title="2nd Swing used OPTM X Stiff: 9° Mint $379.99 (Kai&#x27;li White 60), 10.5° Above Average $362.99 · 2026-11-02"><i data-lucide="tag" class="ic xs"></i>Used $371</span></div></li><li class="lad"><div class="l1"><div class="cname">18° Fairway</div><div class="yd muted">TBD</div></div><div class="bar tbd"><span></span></div><div class="muted">Titleist GT3 · Hzrdus 70g S · Set to 17.25° · replaced 3W · distance TBD</div><div class=bdg><span class="pill sm">New</span><span class="val" title="Uinta Golf 90-day guarantee, bought Oct 22, 2026 · 2026-10-22"><i data-lucide="tag" class="ic xs"></i>$280 credit • 01/20/27</span><span class="val used" title="Global Golf used GT3 fairway Excellent $229.99; eBay sold GT3 18° 5W median $231 (Teeworth, 90 days) · 2026-10-26"><i data-lucide="tag" class="ic xs"></i>Used $230</span></div></li><li class="lad"><div class="l1"><div class="cname">21° Fairway (7W)</div><div class="yd muted">TBD</div></div><div class="bar tbd"><span></span></div><div class="muted">Titleist GT2 · Tensei 1K Black 75 S · Excellent · std 41.5&quot; · Titleist 360 grip · new headcover · bought eBay Nov 1 · plan ~40.5&quot;</div><div class=bdg><span class="pill sm">New</span><span class="val" title="On in Two trade-in (up-to ceiling, excellent) · Titleist GT2 fairway · 2026-11-02"><i data-lucide="tag" class="ic xs"></i>Trade ≤$125</span><span class="val used" title="Avg of Global Golf GT2 Very Good $264.99 and Next Round GT2 Excellent $289.99; eBay sold median $200 (45 sales, Face Value Golf) · 2026-10-26"><i data-lucide="tag" class="ic xs"></i>Used $277</span></div></li><li class="lad"><div class="l1"><div class="cname">5 Hybrid</div><div class="yd">186 <small>yd</small></div></div><div class="bar"><span style="width:57%"></span></div><div class="muted">Callaway Paradym Super</div><div class=bdg><span class="val" title="On in Two trade-in (up-to ceiling) · 2026-11-02"><i data-lucide="tag" class="ic xs"></i>Trade ≤$70</span><span class="val used" title="Face Value Golf typical used asking, Paradym Super hybrid Above Average grade (Callaway Pre-Owned from $120 Avg) · 2026-10-26"><i data-lucide="tag" class="ic xs"></i>Used $178</span></div></li><li class="lad"><div class="l1"><div class="cname">Irons 5i–PW</div><div class="yd">168 <small>yd</small></div></div><div class="bar"><span style="width:47%"></span></div><div class="muted">Callaway X Forged (2025) · Nippon Modus 130 X · 5i carry 168 · other carries TBD</div><div class=bdg><span class="val" title="Jason: trade-in guarantee value, trade by Nov 15, 2026 (deadline approx., per Jason) · 2026-10-26"><i data-lucide="tag" class="ic xs"></i>$1400 credit • 11/15/26</span><span class="val used" title="FairwayWire eBay sold avg, X Forged 2025 set (18 sales, mostly 4-PW, mixed shafts); Excellent/Very Good sales $986–$1,200 · 2026-10-26"><i data-lucide="tag" class="ic xs"></i>Used $812</span></div></li><li class="lad"><div class="l1"><div class="cname">50° Wedge</div><div class="yd muted">TBD</div></div><div class="bar tbd"><span></span></div><div class="muted">Titleist Vokey SM10 50° · grind unknown</div><div class=bdg><span class="val" title="2nd Swing store credit via Face Value Golf (SM10 family, avg cond., checked Oct 21); iGolf Value Guide cash $47 · 2026-11-02"><i data-lucide="tag" class="ic xs"></i>Trade $47</span><span class="val used" title="Titleist Certified Pre-Owned SM10 Excellent $119 · 2026-10-26"><i data-lucide="tag" class="ic xs"></i>Used $119</span></div></li><li class="lad"><div class="l1"><div class="cname">54° Wedge</div><div class="yd muted">TBD</div></div><div class="bar tbd"><span></span></div><div class="muted">Titleist Vokey SM10 54° 08M</div><div class=bdg><span class="val" title="2nd Swing store credit via Face Value Golf (SM10 family, avg cond., checked Oct 21); iGolf Value Guide cash $47 · 2026-11-02"><i data-lucide="tag" class="ic xs"></i>Trade $47</span><span class="val used" title="Titleist Certified Pre-Owned SM10 Excellent $119 · 2026-10-26"><i data-lucide="tag" class="ic xs"></i>Used $119</span></div></li><li class="lad"><div class="l1"><div class="cname">58° Wedge</div><div class="yd muted">TBD</div></div><div class="bar tbd"><span></span></div><div class="muted">Titleist Vokey SM10 58° 08M</div><div class=bdg><span class="val" title="2nd Swing store credit via Face Value Golf (SM10 family, avg cond., checked Oct 21); iGolf Value Guide cash $47 · 2026-11-02"><i data-lucide="tag" class="ic xs"></i>Trade $47</span><span class="val used" title="Titleist Certified Pre-Owned SM10 Excellent $119 · 2026-10-26"><i data-lucide="tag" class="ic xs"></i>Used $119</span></div></li><li class="lad"><div class="l1"><div class="cname">Putter</div><div class="yd muted">TBD</div></div><div class="bar tbd"><span></span></div><div class="muted">PING Ally Blue Onset · 35&quot; · Exact model TBC (Scottsdale TEC Ally Blue Onset?)</div><div class=bdg><span class="val" title="On in Two trade-in (up-to ceiling) · Scottsdale TEC Ally Blue Onset; PLD SE Ally Blue 4 Onset $185 · 2026-11-02"><i data-lucide="tag" class="ic xs"></i>Trade ≤$180</span><span class="val used" title="ClubChecks used target, Scottsdale TEC Ally Blue Onset; Carl&#x27;s Golfland 35&quot; Very Good $349.99 · 2026-10-26"><i data-lucide="tag" class="ic xs"></i>Used $346</span></div></li></ul><div class="subs"><div class="sub"><h3><i data-lucide="repeat" class="ic s"></i>Flagged to replace</h3><ul class="lst replace"><li><div class="it"><div class="l1"><div class="cname">Callaway X Forged irons</div></div><div class="muted">Considering trade for P7CB heads, same Modus 130 X</div><div class=bdg><span class="val" title="Jason: trade-in guarantee value, trade by Nov 15, 2026 (deadline approx., per Jason) · 2026-10-26"><i data-lucide="tag" class="ic xs"></i>$1400 credit • 11/15/26</span><span class="val used" title="FairwayWire eBay sold avg, X Forged 2025 set (18 sales, mostly 4-PW, mixed shafts); Excellent/Very Good sales $986–$1,200 · 2026-10-26"><i data-lucide="tag" class="ic xs"></i>Used $812</span></div></div></li></ul></div><div class="sub"><h3><i data-lucide="pause-circle" class="ic s"></i>Sidelined</h3><ul class="lst sidelined"><li><div class="it"><div class="l1"><div class="cname">Odyssey Jailbird Mini · slant neck 35&quot;</div></div><div class="muted">Keep, go back to, or trade?</div><div class=bdg><span class="val" title="On in Two trade-in ceilings: Ai-ONE Jailbird Mini S $95 – Ai-DUAL Jailbird Mini $120 (exact version TBC) · 2026-11-02"><i data-lucide="tag" class="ic xs"></i>Trade $95–120</span><span class="val used" title="Golf Club Index avg sold, Odyssey Ai-ONE Jailbird Mini (exact version TBC) · 2026-10-26"><i data-lucide="tag" class="ic xs"></i>Used $194</span></div></div></li><li><div class="it"><div class="l1"><div class="cname">3 Hybrid</div><div class=yd>195 <small>yd</small></div></div><div class="muted">Sidelined Nov 8, 2026 · was flagged to come out when the 21° GT goes in</div><div class=bdg><span class="val" title="On in Two trade-in (up-to ceiling) · 2026-11-02"><i data-lucide="tag" class="ic xs"></i>Trade ≤$70</span><span class="val used" title="Face Value Golf typical used asking, Paradym Super hybrid Above Average grade (Callaway Pre-Owned from $120 Avg) · 2026-10-26"><i data-lucide="tag" class="ic xs"></i>Used $178</span></div></div></li></ul></div><div class="sub"><h3><i data-lucide="plus-circle" class="ic s"></i>Interested in adding</h3><ul class="lst add"><li><div class="it"><div class="l1"><div class="cname">TaylorMade P7CB irons</div></div><div class="muted">Same Modus 130 X shafts</div><div class=bdg><span class="val" title="Face Value Golf: best cash offer, iGolf Value Guide, 7-club set, Average ($61.50/club), checked Oct 11 · 2026-10-26"><i data-lucide="tag" class="ic xs"></i>Trade $431 set</span><span class="val used" title="Face Value Golf typical used asking, 7-club set, median of 44 listings (Average or better), checked Oct 11; Global Golf Average 4-PW $760 · 2026-10-26"><i data-lucide="tag" class="ic xs"></i>Used $859</span></div></div></li><li><div class="it"><div class="l1"><div class="cname">Titleist Vokey SM10 46° 10F</div></div><div class="muted">Backup PW option if the X Forged PW doesn&#x27;t work out or gets damaged; not in the bag</div><div class=bdg><span class="val" title="2nd Swing store credit via Face Value Golf (SM10 family, avg cond.) · 2026-10-23"><i data-lucide="tag" class="ic xs"></i>Trade $47</span><span class="val used" title="Titleist Certified Pre-Owned SM10 Excellent $119 · 2026-10-26"><i data-lucide="tag" class="ic xs"></i>Used $119</span></div></div></li></ul></div><div class="sub"><h3><i data-lucide="archive" class="ic s"></i>Retired</h3><ul class="lst retired"><li><div class="it"><div class="l1"><div class="cname">Paradym Ai Smoke Max 3W</div></div><div class="muted">~211 yd, right miss · traded in for GT3 18° at Uinta Golf, Oct 2026</div></div></li></ul></div></div></section></div><section class="card lenchart"><header><h2><i data-lucide="ruler" class="ic s"></i>Titleist GT/GTS woods + GT1 hybrid lengths</h2></header><div class="tw"><table><thead><tr><th>Loft</th><th>Club</th><th>Models</th><th>Std</th><th>−½"</th><th>−1"</th></tr></thead><tbody><tr><td>13.5°</td><td>3-wood</td><td class="muted">GT2, GTS2</td><td>43"</td><td>42.5"</td><td>42"</td></tr><tr><td>15°</td><td>3-wood</td><td class="muted">GT1, GT2, GT3, GTS</td><td>43"</td><td>42.5"</td><td>42"</td></tr><tr><td>16.5°</td><td>4-wood</td><td class="muted">GT2, GT3, GTS</td><td>43"</td><td>42.5"</td><td>42"</td></tr><tr class="inbag"><td>18°</td><td>5-wood (mine, GT3) <span class="mtag">In bag</span></td><td class="muted">GT1, GT2, GT3, GTS</td><td>42"</td><td class=hl>41.5"</td><td>41"</td></tr><tr><td>20°</td><td>4-hybrid</td><td class="muted">GT1 hybrid</td><td>40.5"</td><td>40"</td><td>39.5"</td></tr><tr class="inbag"><td>21°</td><td>7-wood <span class="mtag">In bag</span></td><td class="muted">GT1, GT2, GTS</td><td>41.5"</td><td>41"</td><td class=hl>40.5"</td></tr><tr class="target"><td>23°</td><td>5-hybrid <span class="mtag">Target</span> <span class="muted">set to 24.5°</span></td><td class="muted">GT1 hybrid</td><td>40"</td><td>39.5"</td><td>39"</td></tr><tr class="target"><td>24°</td><td>9-wood <span class="mtag">Target</span></td><td class="muted">GT1 only</td><td>41"</td><td>40.5"</td><td class=hl>40"</td></tr><tr><td>26°</td><td>6-hybrid</td><td class="muted">GT1 hybrid</td><td>39.5"</td><td>39"</td><td>38.5"</td></tr><tr><td>29°</td><td>7-hybrid</td><td class="muted">GT1 hybrid</td><td>39"</td><td>38.5"</td><td>38"</td></tr></tbody></table></div><p class="muted">Row marks: In bag (GT3 18° 5-wood, GT2 21° 7-wood set 22.5°) and Target (GT1 23° hybrid set 24.5°, GT1 24° 9-wood). Highlighted cells = shortening plan in ~½" steps (5-wood 41.5", 7-wood ~40.5" or 9-wood ~40"). GT1 23° hybrid is already 40" stock. Add ~2g head weight per ½" cut. GT1 hybrids ship with a .335" fairway tip unless custom-ordered with .370". Source: Titleist specs.</p></section>
+<div class="foot"><i data-lucide="refresh-cw" class="ic s"></i>Updated Wed Nov 11 · 11:56 AM MT · Open times checked at about 7:18 AM MST on Nov 11. Wed/Fri: Glendale sold out. Forest Dale: Thursday 8:40 AM only. Walking preferred, cart unknown. ForeUp unverified. Thursday 9:30 AM Eaglewood (18 holes) booked by a friend; player count unknown. · Weather: Open-Meteo</div></div>
 <div class="toast" id="toast" role="status"><i data-lucide="check" class="ic s"></i><span>Copied — paste in Golf Bot chat</span></div>
 <script>
 function cp(b){navigator.clipboard&&navigator.clipboard.writeText(b.dataset.msg);b.classList.add('copied');const t=document.getElementById('toast');t.classList.add('on');setTimeout(()=>{b.classList.remove('copied');t.classList.remove('on')},1600)}
